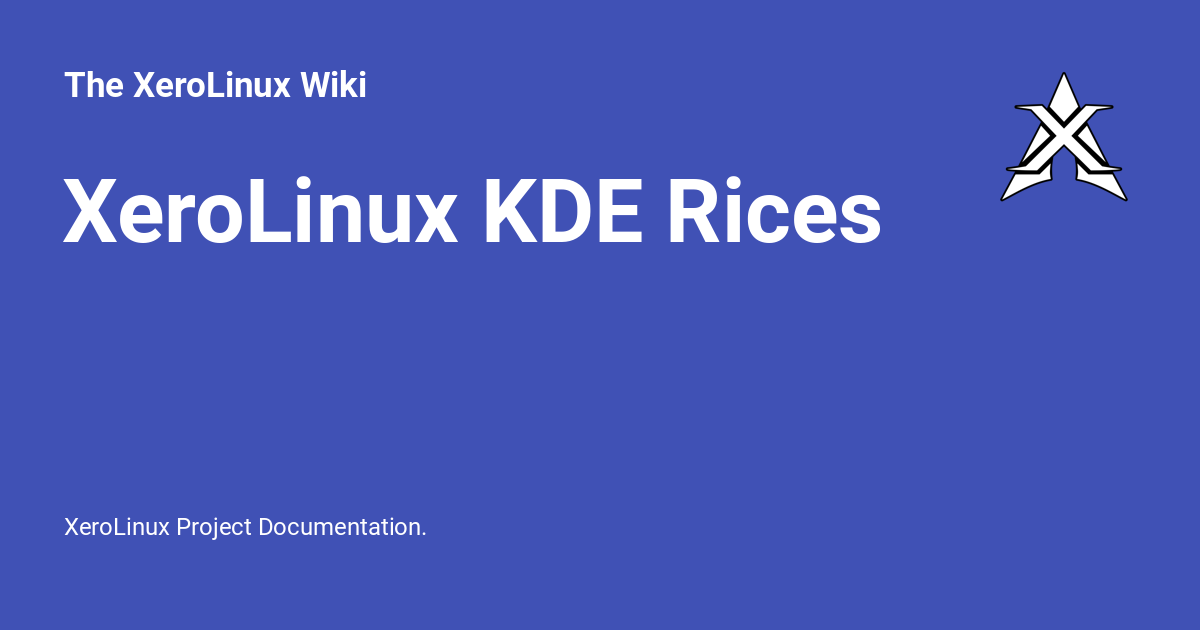
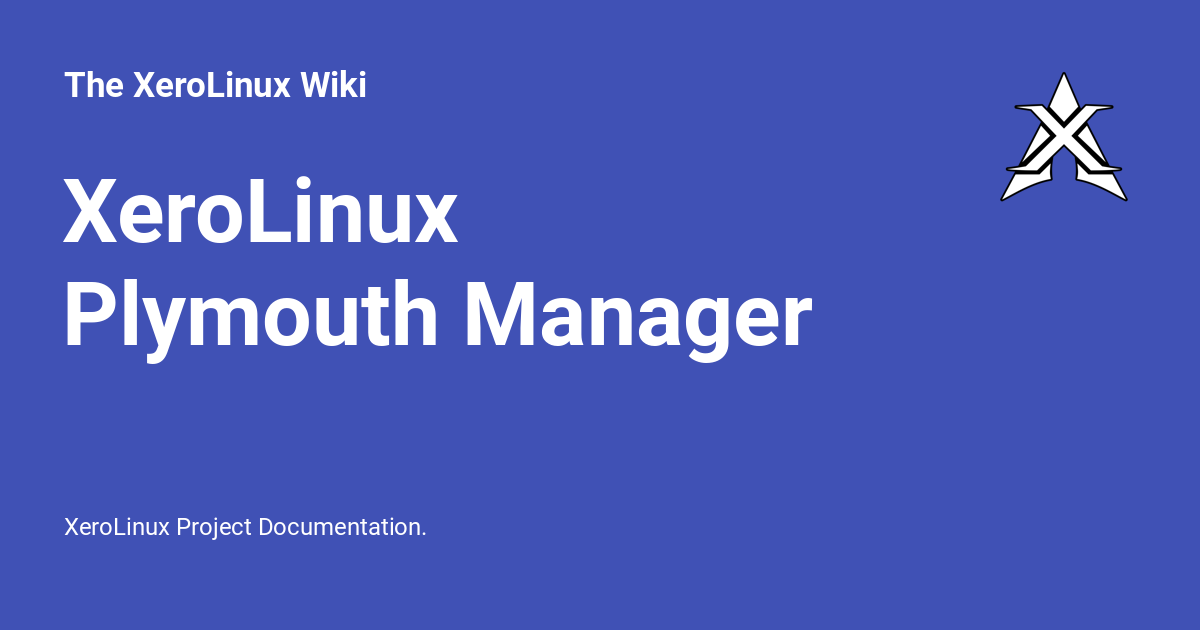
Title

Changed region(s): [[0.0308, 0.4222, 0.6783, 0.573], [0.4008, 0.2714, 0.74, 0.3921]]

diff --git a/site/plymouth/index.html b/site/plymouth/index.html
@@ -25,7 +25,7 @@
     
     
       
-        <title>XeroLinux KDE Rices - The XeroLinux Wiki</title>
+        <title>XeroLinux Plymouth Manager - The XeroLinux Wiki</title>
       
     
     
@@ -59,7 +59,7 @@
     
   
 <meta property="og:type" content="website" />
-<meta property="og:title" content="XeroLinux KDE Rices - The XeroLinux Wiki" />
+<meta property="og:title" content="XeroLinux Plymouth Manager - The XeroLinux Wiki" />
 <meta property="og:description" content="XeroLinux Project Documentation." />
 <meta property="og:image" content="https://wiki.xerolinux.xyz/assets/images/social/plymouth.png" />
 <meta property="og:image:type" content="image/png" />
@@ -67,7 +67,7 @@
 <meta property="og:image:height" content="630" />
 <meta property="og:url" content="https://wiki.xerolinux.xyz/plymouth/" />
 <meta property="twitter:card" content="summary_large_image" />
-<meta property="twitter:title" content="XeroLinux KDE Rices - The XeroLinux Wiki" />
+<meta property="twitter:title" content="XeroLinux Plymouth Manager - The XeroLinux Wiki" />
 <meta property="twitter:description" content="XeroLinux Project Documentation." />
 <meta property="twitter:image" content="https://wiki.xerolinux.xyz/assets/images/social/plymouth.png" />
 </head>
@@ -122,7 +122,7 @@
         <div class="md-header__topic" data-md-component="header-topic">
           <span class="md-ellipsis">
             
-              XeroLinux KDE Rices
+              XeroLinux Plymouth Manager
             
           </span>
         </div>

diff --git a/docs/plymouth.md b/docs/plymouth.md
@@ -1,5 +1,5 @@
 ---
-title: XeroLinux KDE Rices
+title: XeroLinux Plymouth Manager
 tags:
   - Linux
   - Boot
